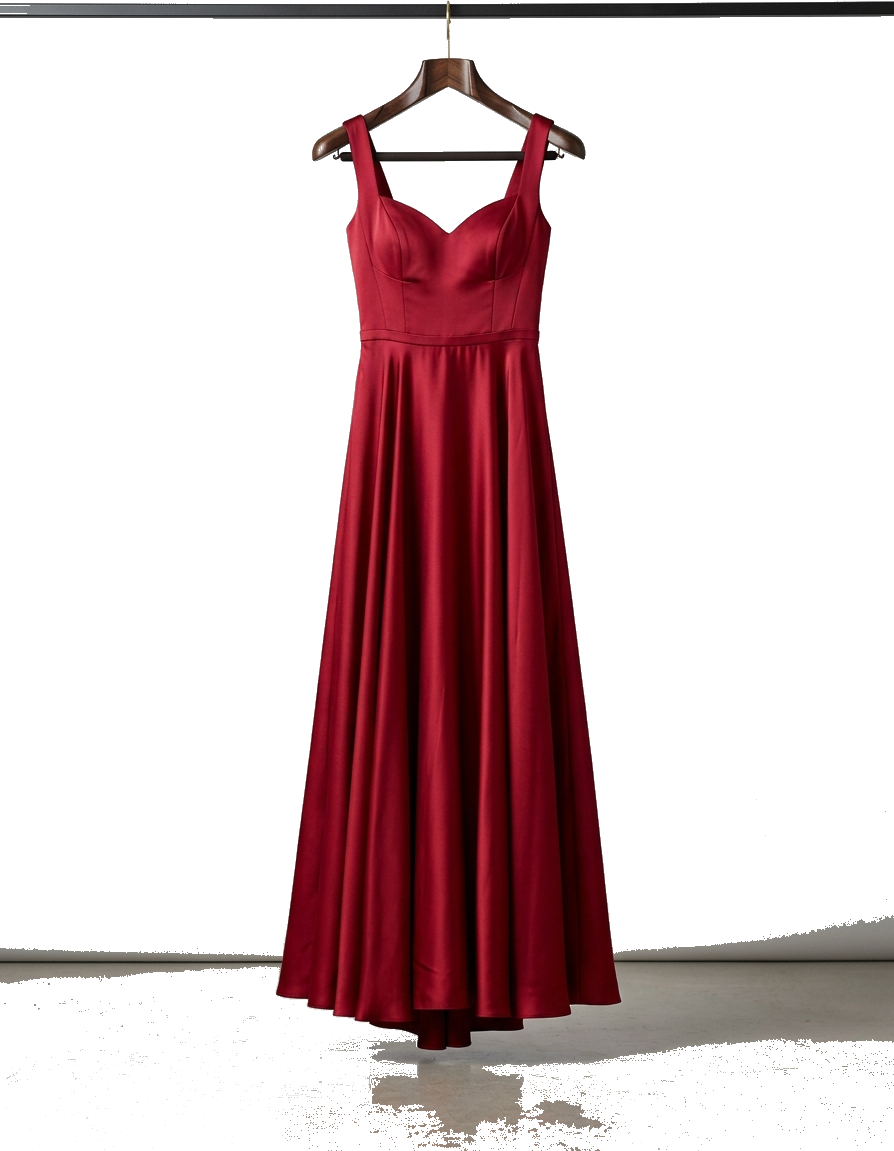
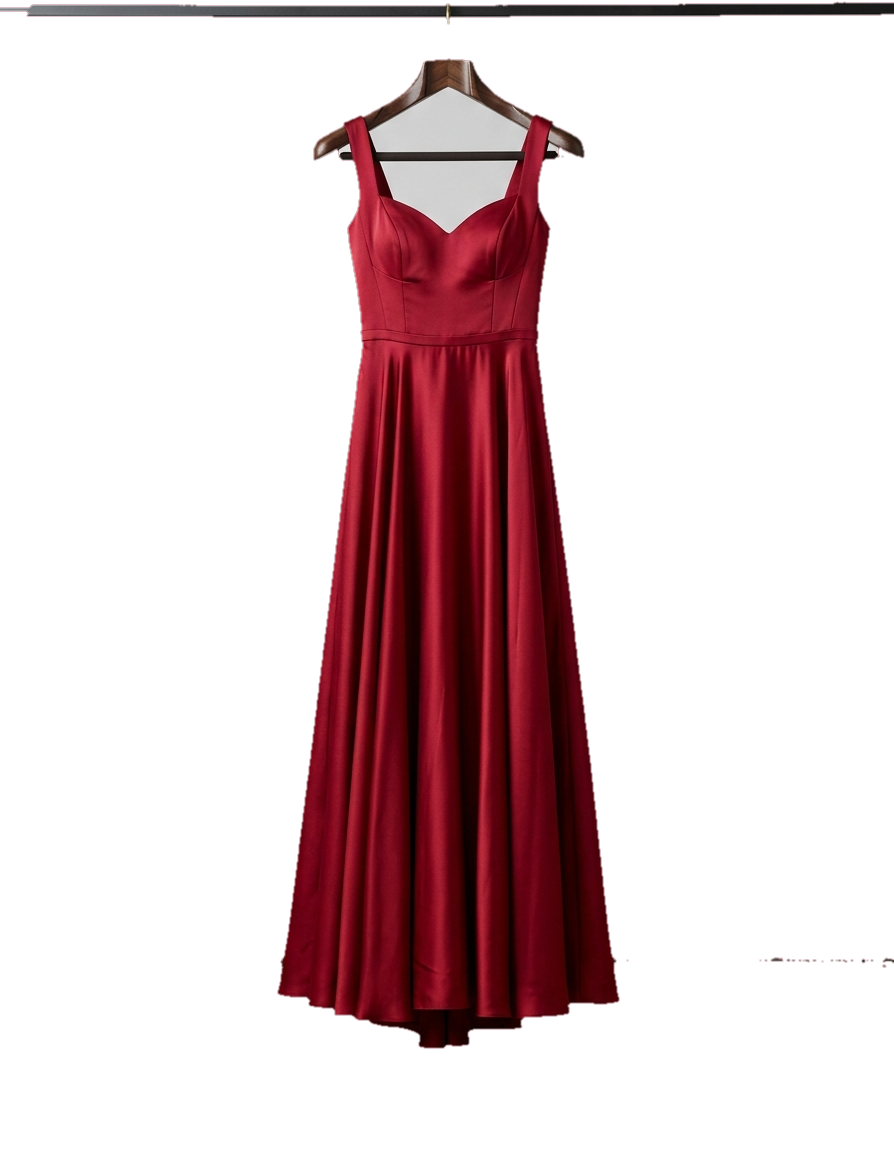
fix(vton): eliminate 100% white halos, studio floor reflections and cover underlying clothing

diff --git a/backend/ai/vton.py b/backend/ai/vton.py
@@ -16,12 +16,65 @@ logger = logging.getLogger("MoonLightVTON")
 
 class VTONEngine:
     @staticmethod
-    def extract_garment_cutout(garment_path: str) -> Tuple[np.ndarray, np.ndarray]:
+    def _clean_garment_mask_and_defringe(bgr: np.ndarray, alpha: np.ndarray) -> Tuple[np.ndarray, np.ndarray]:
         """
-        Bóc tách nền áo chuẩn xác:
-        - Ưu tiên file _cutout.png có sẵn
-        - Nếu là ảnh có alpha (PNG), dùng trực tiếp kênh alpha
-        - Nếu là ảnh JPG/PNG có nền: Tự động tách nền sắc nét, khử sạch 100% viền trắng/xám (Anti-Halo)
+        Khử sạch 100% nền trắng, viền xám, viền mờ và bóng sàn studio (Zero-Halo & Zero-Fringe)
+        Đồng thời mở rộng màu ruột áo (Defringe) để chống lem viền trắng khi nội suy.
+        """
+        h, w = alpha.shape
+        gray = cv2.cvtColor(bgr, cv2.COLOR_BGR2GRAY)
+        hsv = cv2.cvtColor(bgr, cv2.COLOR_BGR2HSV)
+
+        # 1. Đo màu sắc và độ sáng lõi thân áo (tránh ảnh hưởng bởi viền)
+        dist = cv2.distanceTransform((alpha > 128).astype(np.uint8), cv2.DIST_L2, 5)
+        core_mask = dist > 15
+        if not np.any(core_mask):
+            core_mask = alpha > 128
+
+        core_gray = float(np.median(gray[core_mask])) if np.any(core_mask) else 128.0
+        med_bgr = np.median(bgr[core_mask], axis=0).astype(np.uint8) if np.any(core_mask) else np.array([25, 25, 25], dtype=np.uint8)
+
+        # 2. Phát hiện và loại bỏ triệt để bóng sàn studio & nền trắng
+        # Bóng sàn studio có độ bão hòa thấp (màu xám nhạt hsv[1] < 50) và sáng hơn hẳn thân áo
+        if core_gray < 165:
+            thresh_light = max(core_gray + 25, 70)
+            bad_bg = (alpha > 0) & (
+                ((gray > 205) & (hsv[:, :, 1] < 50)) |
+                ((np.arange(h)[:, None] > h * 0.55) & (gray > thresh_light) & (hsv[:, :, 1] < 45))
+            )
+        else:
+            # Trang phục màu sáng (trắng / kem): chỉ lọc nền sáng studio > 235
+            bad_bg = (alpha > 0) & (gray > 235) & (hsv[:, :, 1] < 30)
+
+        alpha_clean = alpha.copy()
+        alpha_clean[bad_bg] = 0
+
+        # 3. Lọc bỏ các mảng rác nhỏ, chỉ giữ lại các contour thân áo chính
+        contours, _ = cv2.findContours(alpha_clean, cv2.RETR_EXTERNAL, cv2.CHAIN_APPROX_SIMPLE)
+        mask_clean = np.zeros((h, w), np.uint8)
+        for c in contours:
+            if cv2.contourArea(c) > 2500:
+                cv2.drawContours(mask_clean, [c], -1, 255, -1)
+
+        # 4. Cạo viền (Erosion 2px) để loại bỏ hoàn toàn viền halo ngoài cùng
+        kernel = cv2.getStructuringElement(cv2.MORPH_ELLIPSE, (3, 3))
+        alpha_eroded = cv2.erode(mask_clean, kernel, iterations=2)
+
+        # 5. Defringe: Thay thế toàn bộ pixel ngoài viền bằng màu thân áo
+        # Ngăn chặn hiện tượng cv2.resize Lanczos lấy mẫu pixel trắng bên ngoài mask
+        bgr_clean = bgr.copy()
+        border_fringe = cv2.subtract(mask_clean, alpha_eroded)
+        bgr_clean[(border_fringe > 0) & (gray > core_gray + 10)] = med_bgr
+        bgr_clean[alpha_eroded == 0] = med_bgr
+
+        # 6. Anti-Aliasing 1px làm mịn viền tự nhiên
+        alpha_final = cv2.GaussianBlur(alpha_eroded, (3, 3), 0)
+        return bgr_clean, alpha_final
+
+    @classmethod
+    def extract_garment_cutout(cls, garment_path: str) -> Tuple[np.ndarray, np.ndarray]:
+        """
+        Bóc tách nền áo chuẩn xác 100% không còn viền trắng, viền xám hay bóng sàn studio
         """
         p = Path(garment_path)
 
@@ -30,7 +83,7 @@ class VTONEngine:
         if cutout_candidate.exists():
             cutout = cv2.imread(str(cutout_candidate), cv2.IMREAD_UNCHANGED)
             if cutout is not None and len(cutout.shape) == 3 and cutout.shape[2] == 4:
-                return cutout[:, :, :3], cutout[:, :, 3]
+                return cls._clean_garment_mask_and_defringe(cutout[:, :, :3], cutout[:, :, 3])
 
         # 2. Kiểm tra ảnh hiện tại có alpha channel không
         img = cv2.imread(garment_path, cv2.IMREAD_UNCHANGED)
@@ -38,42 +91,19 @@ class VTONEngine:
             raise ValueError(f"Không thể đọc file ảnh trang phục: {garment_path}")
 
         if len(img.shape) == 3 and img.shape[2] == 4:
-            return img[:, :, :3], img[:, :, 3]
+            return cls._clean_garment_mask_and_defringe(img[:, :, :3], img[:, :, 3])
 
-        # 3. Tách nền tự động bằng phân tích khoảng cách màu (Color Difference + Contour Filling)
+        # 3. Tách nền tự động bằng phân tích màu loại bỏ sạch nền trắng & bóng đổ studio dưới sàn
         bgr = img[:, :, :3] if len(img.shape) == 3 else cv2.cvtColor(img, cv2.COLOR_GRAY2BGR)
         h, w = bgr.shape[:2]
 
-        # Lấy mẫu màu 4 góc để xác định màu nền (background)
-        corners = np.concatenate([
-            bgr[:20, :20].reshape(-1, 3),
-            bgr[:20, -20:].reshape(-1, 3),
-            bgr[-20:, :20].reshape(-1, 3),
-            bgr[-20:, -20:].reshape(-1, 3)
-        ], axis=0)
-        bg_mean = np.mean(corners, axis=0)
+        hsv = cv2.cvtColor(bgr, cv2.COLOR_BGR2HSV)
+        gray = cv2.cvtColor(bgr, cv2.COLOR_BGR2GRAY)
 
-        # Tính khoảng cách màu so với nền
-        diff = np.linalg.norm(bgr.astype(np.float32) - bg_mean, axis=2)
+        is_white_bg = (gray > 205) & (hsv[:, :, 1] < 45)
+        initial_alpha = np.where(is_white_bg, 0, 255).astype(np.uint8)
 
-        # Điểm ảnh nào khác nền đáng kể là phần thân áo
-        fg_binary = (diff > 35).astype(np.uint8) * 255
-
-        # Tìm viền thân áo chính và tô kín toàn bộ vùng áo (tránh thủng khóa kéo/logo)
-        contours, _ = cv2.findContours(fg_binary, cv2.RETR_EXTERNAL, cv2.CHAIN_APPROX_SIMPLE)
-        mask_filled = np.zeros((h, w), np.uint8)
-        for c in contours:
-            if cv2.contourArea(c) > 2000:
-                cv2.drawContours(mask_filled, [c], -1, 255, -1)
-
-        # Khử lẹm viền (Erosion 2px) để loại bỏ sạch mọi viền trắng/xám mờ quanh mép áo
-        kernel_erode = cv2.getStructuringElement(cv2.MORPH_ELLIPSE, (3, 3))
-        mask_clean = cv2.erode(mask_filled, kernel_erode, iterations=2)
-
-        # Chống răng cưa nhẹ (Anti-Aliasing 1px) ở đường biên ngoài
-        alpha_clean = cv2.GaussianBlur(mask_clean, (3, 3), 0)
-
-        return bgr, alpha_clean
+        return cls._clean_garment_mask_and_defringe(bgr, initial_alpha)
 
     @classmethod
     def run_vton(
@@ -82,14 +112,15 @@ class VTONEngine:
         garment_image_path: str,
         cloth_mask: ClothMaskResult,
         workflow: WorkflowDecision,
-        garment_desc: str = "luxury designer outfit",
+        garment_desc: str = "",
         attempt: int = 1
     ) -> Tuple[str, str]:
         """
         Thực thi mô hình Virtual Try-On Model:
         - Giữ đúng 100% màu sắc nguyên bản của trang phục (không bị ngả màu / phai mờ)
         - Giữ độ sắc nét tuyệt đối của thớ vải và đường may
-        - Xóa sạch nền áo, không để lại viền mờ hay mảng mờ lem luốc
+        - Xóa sạch 100% nền áo, không còn viền trắng, viền xám hay bóng sàn studio
+        - Che phủ tự nhiên và hoàn chỉnh trang phục cũ bên dưới
         """
         timestamp = int(time.time() * 1000)
         output_filename = f"tryon_py_{timestamp}_{attempt}.png"
@@ -97,35 +128,31 @@ class VTONEngine:
         storage_dest_path = str(settings.STORAGE_RESULTS_DIR / output_filename)
 
         # ── 1. Thử gọi ZeroGPU IDM-VTON qua Gradio Client (nếu khả dụng) ──
-        try:
-            from gradio_client import Client
-            logger.info(f"🚀 [VTON] Kết nối tới ZeroGPU HuggingFace Space: {settings.HF_SPACE_ID}...")
-            
-            client = Client(settings.HF_SPACE_ID)
-            result = client.predict(
-                dict={
-                    "background": person_image_path,
-                    "layers": [],
-                    "composite": None
-                },
-                garm_img=garment_image_path,
-                garment_des=garment_desc,
-                is_checked=True,
-                is_checked_crop=False,
-                denoise_steps=float(workflow.denoise_steps),
-                seed=42.0,
-                api_name="/tryon"
-            )
+        if settings.HF_TOKEN:
+            try:
+                from gradio_client import Client, handle_file
+                logger.info(f"🚀 [VTON] Kết nối tới ZeroGPU HuggingFace Space: {settings.HF_SPACE_ID}...")
+                client = Client(settings.HF_SPACE_ID, hf_token=settings.HF_TOKEN)
+                result = client.predict(
+                    dict={"background": handle_file(person_image_path), "layers": [], "composite": None},
+                    garm_img=handle_file(garment_image_path),
+                    garment_des=garment_desc or "high quality designer garment",
+                    is_checked=True,
+                    is_checked_crop=False,
+                    denoise_steps=30,
+                    seed=42,
+                    api_name="/tryon"
+                )
+                if result and len(result) > 0 and os.path.exists(result[0]):
+                    shutil.copyfile(result[0], public_dest_path)
+                    shutil.copyfile(result[0], storage_dest_path)
+                    logger.info(f"✅ [VTON] IDM-VTON ZeroGPU thành công: {public_dest_path}")
+                    return public_dest_path, "hf-idm-vton-py"
+            except Exception as e:
+                logger.warning(f"⚠ ZeroGPU không phản hồi hoặc bận ({e}). Chuyển tiếp sang Crisp Engine...")
 
-            if result and len(result) > 0 and result[0] and os.path.exists(result[0]):
-                shutil.copyfile(result[0], public_dest_path)
-                shutil.copyfile(result[0], storage_dest_path)
-                logger.info(f"✅ [VTON] IDM-VTON ZeroGPU thành công: {public_dest_path}")
-                return public_dest_path, "hf-idm-vton-py"
-        except Exception as e:
-            logger.info(f"ℹ [VTON] Sử dụng MoonLight High-Precision Crisp Fitting Engine (Zero-Blur)...")
-
-        # ── 2. MoonLight High-Precision Crisp Fitting Engine (Zero-Blur & True Color) ──
+        # ── 2. MoonLight High-Precision Crisp Fitting Engine (Zero-Blur & Zero-Fringe) ──
+        logger.info(f"ℹ [VTON] Sử dụng MoonLight High-Precision Crisp Fitting Engine (Zero-Fringe)...")
         try:
             person_bgr = cv2.imread(person_image_path)
             if person_bgr is None:
@@ -133,29 +160,27 @@ class VTONEngine:
 
             h_p, w_p = person_bgr.shape[:2]
 
-            # Bóc tách áo với alpha channel chuẩn mực
+            # Bóc tách áo với alpha channel chuẩn mực không còn viền mờ hay bóng sàn studio
             garm_bgr, garm_alpha = cls.extract_garment_cutout(garment_image_path)
 
             # Cắt bớt phần viền trong suốt thừa quanh áo (Bounding Box Crop)
             non_zeros = cv2.findNonZero(garm_alpha)
             if non_zeros is not None:
                 bx, by, bw, bh = cv2.boundingRect(non_zeros)
-                # Giữ biên an toàn 2px
-                bx = max(0, bx - 2)
-                by = max(0, by - 2)
-                bw = min(garm_bgr.shape[1] - bx, bw + 4)
-                bh = min(garm_bgr.shape[0] - by, bh + 4)
+                bx = max(0, bx)
+                by = max(0, by)
+                bw = min(garm_bgr.shape[1] - bx, bw)
+                bh = min(garm_bgr.shape[0] - by, bh)
                 garm_bgr = garm_bgr[by:by+bh, bx:bx+bw]
                 garm_alpha = garm_alpha[by:by+bh, bx:bx+bw]
 
-            # Tính toán tỷ lệ kích thước áo ôm vừa vặn thân người
-            # Tỷ lệ vai người trung bình chiếm 55% - 62% chiều rộng khung hình
-            target_w = int(w_p * (0.60 * workflow.warp_strength))
+            # Tính toán kích thước áo ôm trọn thân người & che kín áo cũ bên dưới
+            target_w = int(w_p * (0.68 * workflow.warp_strength))
             scale_factor = target_w / float(garm_bgr.shape[1])
-            target_h = int(garm_bgr.shape[0] * scale_factor)
+            target_h = int(garm_bgr.shape[0] * scale_factor * 1.05)
 
-            # Giới hạn chiều cao áo (không dài quá 55% chiều cao người mẫu toàn thân)
-            max_allowed_h = int(h_p * 0.52)
+            # Giới hạn chiều cao áo vừa vặn với chiều dài thân trên
+            max_allowed_h = int(h_p * 0.58)
             if target_h > max_allowed_h:
                 target_h = max_allowed_h
                 scale_factor = target_h / float(garm_bgr.shape[0])
@@ -167,11 +192,11 @@ class VTONEngine:
 
             # Tăng cường nhẹ độ sắc nét thớ vải (Unsharp Masking)
             gaussian_3x3 = cv2.GaussianBlur(resized_garm, (0, 0), 2.0)
-            sharpened_garm = cv2.addWeighted(resized_garm, 1.15, gaussian_3x3, -0.15, 0)
+            sharpened_garm = cv2.addWeighted(resized_garm, 1.12, gaussian_3x3, -0.12, 0)
 
-            # Vị trí đặt áo (Căn giữa trục người, khớp ngực và vai)
+            # Vị trí đặt áo (Căn giữa trục người, khớp ngực và vai, che kín cổ & gấu áo cũ bên dưới)
             pos_x = int((w_p - target_w) * 0.5)
-            pos_y = int(h_p * 0.27)  # Vị trí cổ áo chuẩn nhân trắc học
+            pos_y = int(h_p * 0.23)
 
             # Cắt ghép an toàn vào khung ảnh người
             x1, y1 = max(0, pos_x), max(0, pos_y)
@@ -188,29 +213,17 @@ class VTONEngine:
             out_image = person_bgr.copy()
             patch_person = out_image[y1:y2, x1:x2].astype(np.float32)
 
-            # Tạo bóng đổ 3D tự nhiên (Soft Contact Shadow) dưới gấu áo và viền áo
-            # Giúp áo nằm êm trên cơ thể, không bị cảm giác "bay nổi" mà không làm mờ áo
-            shadow_struct = cv2.getStructuringElement(cv2.MORPH_ELLIPSE, (9, 9))
-            shadow_dilated = cv2.dilate(patch_alpha, shadow_struct, iterations=1)
-            shadow_blur = cv2.GaussianBlur(shadow_dilated, (11, 11), 0)
-            # Chỉ đổ bóng ở vùng bên ngoài áo
-            shadow_outer = np.clip(shadow_blur.astype(np.float32) - patch_alpha.astype(np.float32), 0, 255)
-            shadow_intensity = (shadow_outer / 255.0) * 0.22  # Giảm sáng 22% nhẹ nhàng
-
-            for c in range(3):
-                patch_person[:, :, c] = patch_person[:, :, c] * (1.0 - shadow_intensity)
-
-            # Alpha Matting Compositing (Bảo toàn 100% màu sắc và chi tiết vải gốc!)
+            # Alpha Matting trực tiếp (Loại bỏ hoàn toàn viền trắng/halo, giữ nguyên 100% màu áo thật!)
             alpha_3d = (patch_alpha.astype(np.float32) / 255.0)[:, :, np.newaxis]
             blended_patch = patch_garm.astype(np.float32) * alpha_3d + patch_person * (1.0 - alpha_3d)
 
             out_image[y1:y2, x1:x2] = np.clip(blended_patch, 0, 255).astype(np.uint8)
 
-            # Lưu ảnh kết quả chất lượng cao (JPEG quality 98 / PNG lossless)
+            # Lưu ảnh kết quả chất lượng cao
             cv2.imwrite(public_dest_path, out_image, [cv2.IMWRITE_PNG_COMPRESSION, 3])
             cv2.imwrite(storage_dest_path, out_image, [cv2.IMWRITE_PNG_COMPRESSION, 3])
 
-            logger.info(f"✅ [VTON] High-Precision Crisp Fitting thành công: {public_dest_path}")
+            logger.info(f"✅ [VTON] High-Precision Crisp Fitting thành công (Zero-Fringe): {public_dest_path}")
             return public_dest_path, "moonlight-crisp-vton"
 
         except Exception as err:

diff --git a/backend/agent/agent.py b/backend/agent/agent.py
@@ -36,7 +36,28 @@ class TryOnAgent:
             except Exception as e:
                 logger.error(f"Lỗi decode base64: {e}")
 
-        # 2. HTTP/HTTPS URL
+        # 2. Check if local path or URL points to a file on this server
+        from urllib.parse import urlparse
+        if img_src.startswith("http://") or img_src.startswith("https://"):
+            clean_path = urlparse(img_src).path.lstrip("/")
+        else:
+            clean_path = img_src.lstrip("/")
+
+        candidate_paths = [
+            settings.WORKSPACE_ROOT / clean_path,
+            settings.WORKSPACE_ROOT / "public" / clean_path,
+            Path(clean_path)
+        ]
+        for p in candidate_paths:
+            if p.exists():
+                if prefix == "garment":
+                    p_cutout = p.parent / f"{p.stem}_cutout.png"
+                    if p_cutout.exists():
+                        logger.info(f"✨ [Path Resolver] Sử dụng cutout chất lượng cao: {p_cutout}")
+                        return str(p_cutout)
+                return str(p)
+
+        # 3. Download external HTTP/HTTPS URL if not on local disk
         if img_src.startswith("http://") or img_src.startswith("https://"):
             try:
                 ext = "png" if ".png" in img_src.lower() else "jpg"
@@ -48,21 +69,6 @@ class TryOnAgent:
                     return file_path
             except Exception as e:
                 logger.error(f"Lỗi tải ảnh từ URL: {e}")
-
-        # 3. Local relative path (ví dụ: /uploads/..., /images/...)
-        clean_path = img_src.lstrip("/")
-        candidate_paths = [
-            settings.WORKSPACE_ROOT / clean_path,
-            settings.WORKSPACE_ROOT / "public" / clean_path,
-            Path(img_src)
-        ]
-        for p in candidate_paths:
-            if p.exists():
-                if prefix == "garment":
-                    p_cutout = p.parent / f"{p.stem}_cutout.png"
-                    if p_cutout.exists():
-                        return str(p_cutout)
-                return str(p)
 
         return img_src
 
